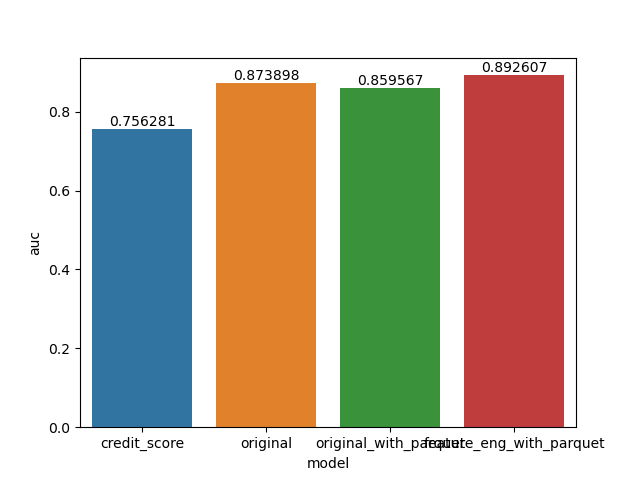
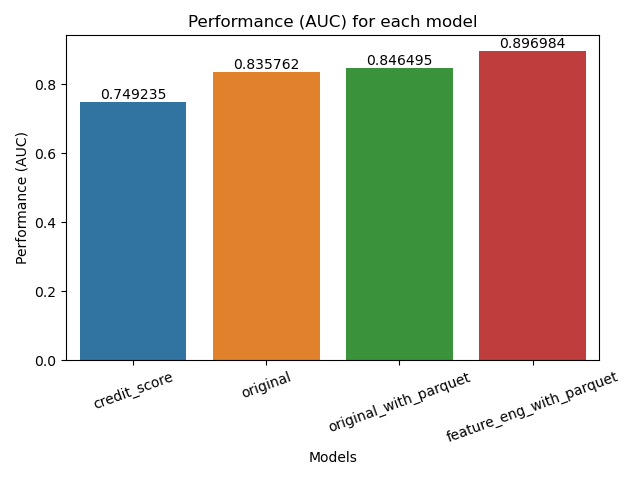
ensured all graphs are correct + have correct labels

diff --git a/src/risknet/run/main.py b/src/risknet/run/main.py
@@ -32,6 +32,7 @@ Iterate to generate:
 - Original Gangster model (OG): the legacy code from Rod's project. Loaded using parquet
 - All optimizations added (all_in): OG + parquet + feature engineering. Loaded using parquet
 '''
+
 #Currently loading all with parquet
 cs = pipeline.pipeline(fe_enabled=False, baseline=True, p_true=False)
 og = pipeline.pipeline(fe_enabled=False, baseline=False, p_true=False)
@@ -51,6 +52,8 @@ elapsed = end - start
 print("Time to run all " + str(len(order)) + " models and plot: " + str(round((elapsed / 60), 2)) + " minutes")
 #About 25 minutes to run all models
 
+order = ['credit_score', 'original', 'original_with_parquet', 'feature_eng_with_parquet']
+
 models = pd.DataFrame(
     {'model': order,
      'auc': aucs,
@@ -58,31 +61,37 @@ models = pd.DataFrame(
      'times': ts
     })
 
-print(aucs)
-print(models)
+#print(aucs)
+#print(models)
 
-plt.figure(figsize=(6,4)) # 6 inch wide, 4 inch high
+plt.figure(figsize=(20,10)) # 12 inch wide, 4 inch high
 fig, ax = plt.subplots()
 auc_bar = sns.barplot(data=models, x='model', y='auc').set_title('Performance (AUC) for each model')
-#auc_bar.bar_label(auc_bar.containers[0], fontsize=10)
-ax.set_xticklabels(ax.get_xticks(), rotation = 45)
+ax.bar_label(ax.containers[0], fontsize=10)
+ax.set(xlabel='Models', ylabel='Performance (AUC)')
+ax.set_xticklabels(order, rotation = 20, fontsize=10)
+plt.tight_layout()
 plt.savefig('graphs/aucs.png')
 plt.show()
 
-plt.figure(figsize=(6,4)) # 6 inch wide, 4 inch high
+plt.figure(figsize=(20,10)) # 12 inch wide, 4 inch high
 fig, ax = plt.subplots()
 pr_bar = sns.barplot(data=models, x='model', y='prs').set_title('Performance (Precision) for each model')
-#pr_bar.bar_label(pr_bar.containers[0], fontsize=10)
-ax.set_xticklabels(ax.get_xticks(), rotation = 45)
+ax.bar_label(ax.containers[0], fontsize=10)
+ax.set(xlabel='Models', ylabel='Performance (Precision)')
+ax.set_xticklabels(order, rotation = 20, fontsize=10)
+plt.tight_layout()
 plt.savefig('graphs/prs.png')
 plt.show()
 
-plt.figure(figsize=(6,4)) # 6 inch wide, 4 inch high
+plt.figure(figsize=(20,10)) # 12 inch wide, 4 inch high
 fig, ax = plt.subplots()
 rects = ax.bar(order, ts)
-ax.bar_label(rects)
+ax.bar_label(ax.containers[0], fontsize=10)
 ax.set_ylabel("Time")
-ax.set_xticklabels(ax.get_xticks(), rotation = 45)
-ax.set_title("Time to train for first, second, and third iterations of models")
+ax.set_xticklabels(order, rotation = 20, fontsize=10)
+ax.set(xlabel='Models', ylabel='Time (minutes)')
+ax.set_title("Time to Train Models")
+plt.tight_layout()
 plt.savefig('graphs/time.png')
 plt.show()
